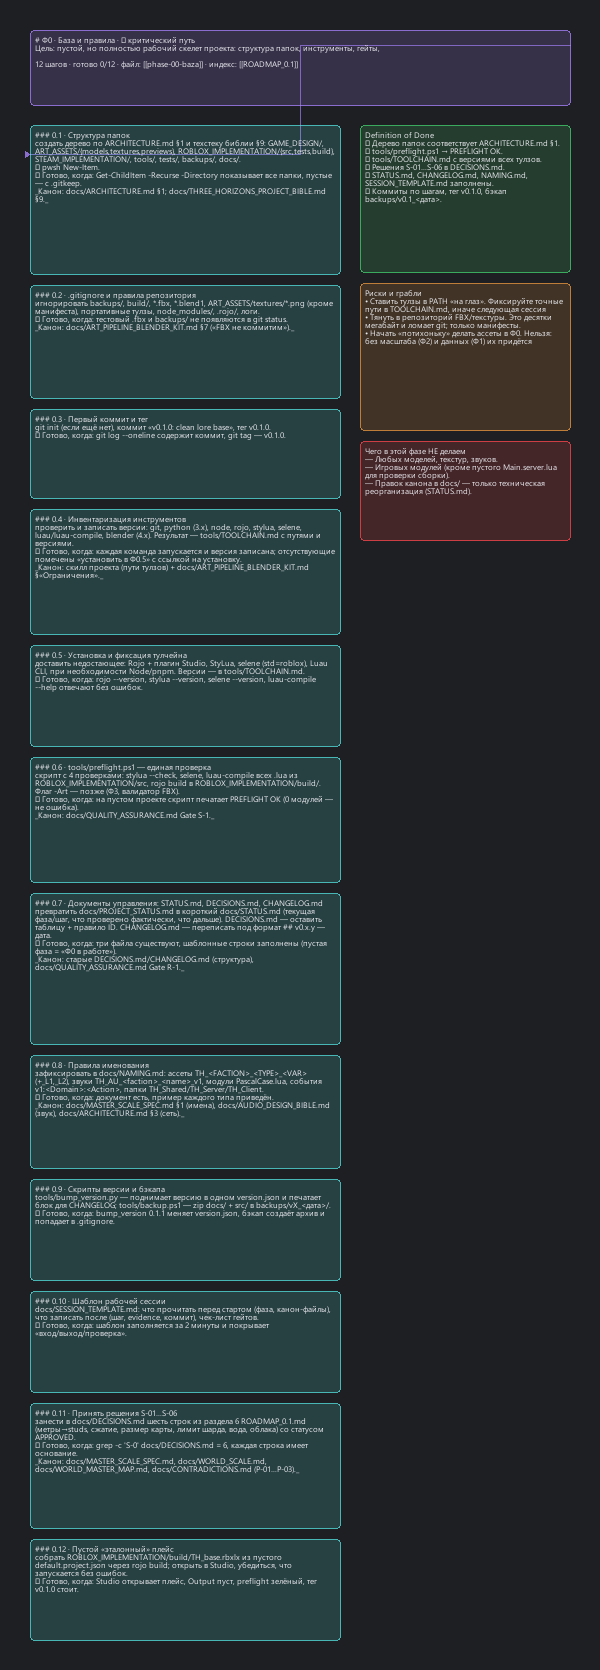
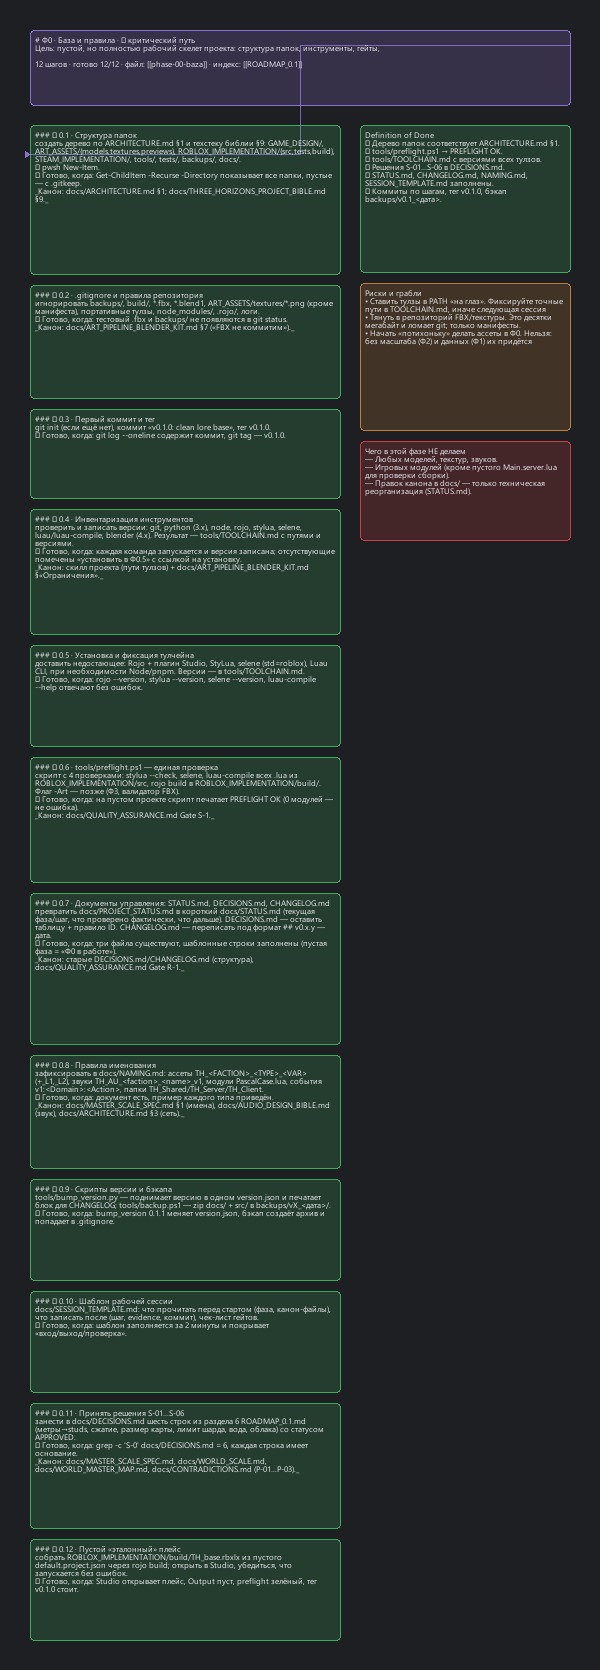
исправлен путь PROGRESS.json в генераторе канвасов: Ф0 в канвасе зелёная (12/12)

diff --git a/tools/make_roadmap_canvas.py b/tools/make_roadmap_canvas.py
@@ -21,7 +21,7 @@ INDEX_OUT = ROOT / "ROADMAP_0.1.canvas"
 
 RED, ORANGE, YELLOW, GREEN, CYAN, PURPLE = "1", "2", "3", "4", "5", "6"
 CRITICAL = {0, 1, 2, 6, 8, 9, 10, 11}
-PROGRESS_FILE = PHASES_DIR / "PROGRESS.json"
+PROGRESS_FILE = ROOT / "docs" / "PROGRESS.json"
 STATUS_COLOR = {"done": GREEN, "in_progress": YELLOW, "blocked": RED,
                 "skipped": ORANGE, "todo": CYAN}
 STATUS_MARK = {"done": "✅ ", "in_progress": "🟨 ", "blocked": "🟥 ", "skipped": "⏭ "}
